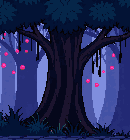
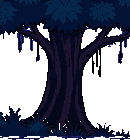
Fix the new skill scenes and the city walk: trees stand alone, rooms stay square, and people hold their ground.
Mining and woodcutting run again, empty spots show the first vein or grove, the lakes have a shore, the forge armor stands to the side, signed-in players can still read the update log, and Brokk is a little taller so he matches the others.

diff --git a/js/skillscene.js b/js/skillscene.js
@@ -1,11 +1,16 @@
 // A walking skill scene: a looping backdrop and floor, a hero on the ground,
 // unique trees or rocks for the spot you picked, a room that gains furniture
 // as you level, and a short flash when you find something good.
-// Positions snap to whole pixels so nothing ripples.
+// Positions snap to whole pixels so nothing ripples. Room art keeps square
+// pixels: it is scaled evenly, then letterboxed or cropped, never stretched.
 import {walkSrc} from './art.js';
 
 const FR = 64, FALLBACK = 'engineer';
 const SCROLL = 16;
+const FIRST = {
+  mining: 'copper', woodcutting: 'ash', fishing: 'eel',
+  cooking: 'stew', smithing: 'iron', alchemy: 'draught', summoning: 'whisper'
+};
 
 const HERO_FOR = {
   mining: 'engineer', woodcutting: 'hunter', fishing: 'delivery_rider',
@@ -47,7 +52,8 @@ const FURN = {
     {src:'/assets/gen/sks/smith_barrel.png', at:30, x:0.0156, y:0.8387, w:14/ROOM_W},
     {src:'/assets/gen/sks/smith_swords.png', at:40, x:0.4375, y:0.0484, w:28/ROOM_W},
     {src:'/assets/gen/sks/smith_shoes.png', at:50, x:0.3906, y:0.9032, w:18/ROOM_W},
-    {src:'/assets/gen/sks/smith_armor.png', at:60, x:0.5104, y:0.5806, w:24/ROOM_W},
+    // Parked on the right, out of the walking lane in front of the forge.
+    {src:'/assets/gen/sks/smith_armor.png', at:60, x:0.8200, y:0.5806, w:24/ROOM_W},
     {src:'/assets/gen/sks/smith_hammer.png', at:70, x:0.3906, y:0.0484, w:14/ROOM_W},
     {src:'/assets/gen/sks/smith_barrel.png', at:80, x:0.5990, y:0.8387, w:14/ROOM_W},
     {src:'/assets/gen/sks/smith_lean.png', at:90, x:0.3281, y:0.6613, w:16/ROOM_W}
@@ -70,6 +76,7 @@ let raf = 0, last = 0, still = false;
 let W = 0, H = 0, k = 1.5, cam = 0, floorH = 0;
 let skill = '', spot = '', heroId = '', level = 0, finds = 0, moving = false;
 let x = 0, dir = 1, v = 28, f = 0, ft = 0, frames = 4, hopping = 0, primed = false, isRoom = false;
+let lay = {s: 1, dw: 384, dh: 160, ox: 0, oy: 0};
 
 function build() {
   node = document.createElement('div');
@@ -94,6 +101,47 @@ function build() {
   fxEl = node.querySelector('.sks-fx');
 }
 
+function artSize(sk, id) {
+  if (sk === 'cooking' || sk === 'smithing') return {w: 384, h: 124, floor: 16};
+  if (sk === 'alchemy') return {w: 384, h: 135, floor: 18};
+  if (sk === 'mining') return {w: 384, h: 160, floor: 36};
+  if (sk === 'woodcutting') return {w: 380, h: 136, floor: 24};
+  if (sk === 'fishing') return {w: 384, h: id === 'eel' ? 125 : 160, floor: 20};
+  return {w: 384, h: 160, floor: 16};
+}
+
+// Whole-number scale when crop and letterbox stay modest; otherwise a uniform
+// cover scale so pixels stay square (never stretch X and Y apart).
+function fitScale(rw, rh) {
+  if (!W || !H) return 1;
+  const cover = Math.max(W / rw, H / rh);
+  const contain = Math.min(W / rw, H / rh);
+  const cand = [Math.round(contain), Math.floor(contain), Math.round(cover), Math.ceil(cover), Math.floor(cover)];
+  let best = null, bestScore = 0.35;
+  for (const i of cand) {
+    if (!Number.isInteger(i) || i < 1) continue;
+    const cropW = Math.max(0, (i * rw - W) / Math.max(i * rw, 1));
+    const cropH = Math.max(0, (i * rh - H) / Math.max(i * rh, 1));
+    const barW = Math.max(0, (W - i * rw) / W);
+    const barH = Math.max(0, (H - i * rh) / H);
+    if (cropW > 0.45 || cropH > 0.45 || barW > 0.4 || barH > 0.4) continue;
+    const score = cropW + cropH + 0.6 * (barW + barH);
+    if (score < bestScore) { bestScore = score; best = i; }
+  }
+  return best || cover;
+}
+
+function layout() {
+  const art = artSize(skill, spot);
+  const s = isRoom ? fitScale(art.w, art.h) : (H ? H / art.h : 1);
+  const dw = art.w * s, dh = art.h * s;
+  const ox = (W - dw) / 2;
+  const oy = H - dh;
+  floorH = Math.round(art.floor * s);
+  lay = {s, dw, dh, ox, oy, art};
+  return lay;
+}
+
 function setSheet(id) {
   const src = walkSrc(id);
   const img = new Image();
@@ -108,9 +156,10 @@ function setSheet(id) {
 
 function sizeHero() {
   if (!sprite) return;
-  sprite.style.width = FR * k + 'px';
-  sprite.style.height = FR * k + 'px';
-  sprite.style.backgroundSize = `${FR * frames * k}px ${FR * k}px`;
+  const kk = k;
+  sprite.style.width = FR * kk + 'px';
+  sprite.style.height = FR * kk + 'px';
+  sprite.style.backgroundSize = `${FR * frames * kk}px ${FR * kk}px`;
   walkEl.style.bottom = Math.round(floorH) + 'px';
 }
 
@@ -118,13 +167,29 @@ function measure() {
   const r = node.getBoundingClientRect();
   if (!r.width || !r.height) return false;
   W = r.width; H = r.height;
-  k = Math.max(1, Math.min(2.2, H * 0.42 / FR));
+  layout();
+  const cap = Math.max(1, Math.floor((H * 0.85) / FR));
+  k = Math.max(1, Math.min(cap, Math.round(lay.s)));
   sizeHero();
   return true;
 }
 
+function placeFurniture() {
+  const list = FURN[skill] || [];
+  const {dw, dh, ox, oy} = lay;
+  [...furnLayer.children].forEach((p, i) => {
+    const it = list[i];
+    if (!it) return;
+    p.style.left = Math.round(ox + it.x * dw) + 'px';
+    p.style.top = Math.round(oy + it.y * dh) + 'px';
+    if (it.w) p.style.width = Math.round(it.w * dw) + 'px';
+    p.style.opacity = level >= it.at ? '1' : '0';
+  });
+}
+
 function applyScene(opts) {
-  const sk = opts.skill, id = opts.node || '';
+  const sk = opts.skill;
+  const id = opts.node || FIRST[sk] || '';
   const lv = opts.level || 1;
   const changed = sk !== skill || id !== spot || lv !== level;
   skill = sk; spot = id; level = lv;
@@ -132,37 +197,36 @@ function applyScene(opts) {
   moving = !!opts.active && !still;
 
   isRoom = !!FURN[sk];
+  layout();
   let bg = '/assets/gen/scene_' + sk + '.png';
   let floor = '';
   if (sk === 'mining') { bg = '/assets/gen/sks/bg_mine.png'; floor = '/assets/gen/sks/floor_mine.png'; }
   else if (sk === 'woodcutting') { bg = '/assets/gen/sks/bg_wood.png'; floor = '/assets/gen/sks/floor_wood.png'; }
-  else if (sk === 'fishing') bg = FISH_BG[id] || FISH_BG.eel;
+  else if (sk === 'fishing') { bg = FISH_BG[id] || FISH_BG.eel; floor = '/assets/gen/sks/floor_fish.png'; }
   bgEl.style.backgroundImage = `url(${bg})`;
   bgEl.style.backgroundRepeat = isRoom ? 'no-repeat' : 'repeat-x';
   if (floor) {
     floorEl.style.display = '';
     floorEl.style.backgroundImage = `url(${floor})`;
-    floorH = Math.max(10, Math.round(H * 0.12));
+    floorEl.style.backgroundRepeat = 'repeat-x';
   } else {
     floorEl.style.display = 'none';
-    floorH = Math.round(H * 0.08);
   }
-  walkEl.style.bottom = floorH + 'px';
+  walkEl.style.bottom = Math.round(floorH) + 'px';
 
-  // resource props
   if (changed) {
     propLayer.textContent = '';
     const src = PROP[id];
     if (src) {
       const count = sk === 'woodcutting' || sk === 'mining' ? 3 : 1;
+      const isTree = sk === 'woodcutting';
       for (let i = 0; i < count; i++) {
         const p = document.createElement('img');
         p.className = 'sks-prop';
         p.src = src;
         p.alt = '';
-        const isTree = sk === 'woodcutting';
-        p.style.width = (isTree ? 120 : 88) + 'px';
-        p.style.left = (18 + i * 28) + '%';
+        p.dataset.slot = String(i);
+        p.style.left = (14 + i * 30) + '%';
         propLayer.appendChild(p);
       }
     }
@@ -173,10 +237,8 @@ function applyScene(opts) {
       hut.alt = '';
       hut.style.right = '4%';
       hut.style.left = 'auto';
-      hut.style.width = '110px';
       propLayer.appendChild(hut);
     }
-    // furniture
     furnLayer.textContent = '';
     const list = FURN[sk] || [];
     for (const it of list) {
@@ -184,19 +246,17 @@ function applyScene(opts) {
       p.className = 'sks-furn-item';
       p.src = it.src;
       p.alt = '';
-      p.style.left = (it.x * 100) + '%';
-      p.style.top = (it.y * 100) + '%';
-      if (it.w) p.style.width = (it.w * 100) + '%';
       if (it.flip) p.style.transform = 'scaleX(-1)';
-      p.style.opacity = lv >= it.at ? '1' : '0';
       furnLayer.appendChild(p);
     }
-  } else {
-    [...furnLayer.children].forEach((p, i) => {
-      const it = (FURN[sk] || [])[i];
-      if (it) p.style.opacity = lv >= it.at ? '1' : '0';
-    });
   }
+  placeFurniture();
+  const treeW = Math.round(130 * lay.s);
+  const rockW = Math.round(64 * Math.max(1.2, lay.s));
+  [...propLayer.querySelectorAll('.sks-prop')].forEach(p => {
+    if (p.classList.contains('sks-hut')) p.style.width = Math.round(110 * Math.max(1, lay.s * 0.7)) + 'px';
+    else p.style.width = (skill === 'woodcutting' ? treeW : rockW) + 'px';
+  });
 
   bobEl.style.display = sk === 'fishing' && moving ? '' : 'none';
 
@@ -221,28 +281,31 @@ function frame(now) {
   if (!measure()) { raf = requestAnimationFrame(frame); return; }
   const dt = Math.min(0.05, (now - (last || now)) / 1000); last = now;
 
-  if (!still && !isRoom) cam += SCROLL * (k / 1.5) * dt;
+  if (!still && !isRoom) cam += SCROLL * (lay.s || 1) * dt;
   const camPx = Math.round(cam);
+  const bgW = Math.round(lay.dw);
+  const bgH = Math.round(lay.dh);
+  const ox = Math.round(lay.ox), oy = Math.round(lay.oy);
+  bgEl.style.backgroundSize = `${bgW}px ${bgH}px`;
   if (isRoom) {
-    bgEl.style.backgroundSize = '100% 100%';
-    bgEl.style.backgroundPosition = '0 0';
+    bgEl.style.backgroundPosition = `${ox}px ${oy}px`;
     propLayer.style.transform = '';
   } else {
-    const bgW = Math.round(Math.max(W * 1.4, H * 2.2));
-    const bgH = Math.round(H);
-    bgEl.style.backgroundSize = `${bgW}px ${bgH}px`;
-    bgEl.style.backgroundPosition = `${-Math.round(((camPx % bgW) + bgW) % bgW)}px 0`;
+    const shift = bgW ? ((camPx % bgW) + bgW) % bgW : 0;
+    bgEl.style.backgroundPosition = `${ox - Math.round(shift)}px ${oy}px`;
     propLayer.style.transform = `translateX(${-Math.round((camPx * 0.85) % Math.max(W, 1))}px)`;
   }
   if (floorEl.style.display !== 'none') {
-    const flW = Math.round(bgW);
+    const flW = bgW;
     floorEl.style.backgroundSize = `${flW}px ${Math.round(floorH)}px`;
-    floorEl.style.backgroundPosition = `${-Math.round(((camPx % flW) + flW) % flW)}px 100%`;
+    const shift = flW ? ((camPx % flW) + flW) % flW : 0;
+    floorEl.style.backgroundPosition = `${ox - Math.round(shift)}px 100%`;
     floorEl.style.height = Math.round(floorH) + 'px';
   }
+  placeFurniture();
 
   if (moving) {
-    x += dir * v * dt * (k / 1.5);
+    x += dir * v * dt * Math.max(0.8, lay.s / 1.5);
     const half = FR * k / 2;
     if (x > W + half) x = -half;
     if (x < -half) x = W + half;
@@ -255,6 +318,7 @@ function frame(now) {
   sprite.style.backgroundPosition = `${-Math.round(f * FR * k)}px 0`;
   sprite.style.transform = dir < 0 ? 'scaleX(-1)' : '';
   walkEl.style.transform = `translateX(${Math.round(x - FR * k / 2)}px) translateY(${-hop}px)`;
+  walkEl.style.bottom = Math.round(floorH) + 'px';
 
   if (skill === 'fishing' && moving) {
     const bx = Math.round(W * 0.62);

diff --git a/js/life.js b/js/life.js
@@ -153,23 +153,28 @@ function stepChat(now) {
   talk.next = now + 1900 + line.text.length * 55;
 }
 
-// Keep everyone at least one step apart. No turning around.
-function separate(g, left, right) {
+// Keep everyone at least one step apart. No turning around, and no pinning
+// anyone to the visible frame — standing or chatting heroes stay in the world
+// so they travel with the ground as the street scrolls.
+function separate(g) {
   const o = onStage().sort((p, q) => p.world - q.world);
+  const talking = w => talk && (w === talk.a || w === talk.b);
   for (let pass = 0; pass < 3; pass++) {
     for (let i = 0; i < o.length - 1; i++) {
       const a = o[i], b = o[i + 1], d = b.world - a.world;
       if (d >= g) continue;
-      const fixA = talk && (a === talk.a || a === talk.b), fixB = talk && (b === talk.a || b === talk.b);
+      const fixA = talking(a), fixB = talking(b);
       const push = g - d;
       if (fixA && !fixB) b.world += push; else if (fixB && !fixA) a.world -= push; else { a.world -= push / 2; b.world += push / 2; }
     }
-    if (o.length) {
-      if (o[0].world < cam + left) o[0].world = cam + left;
-      if (o[o.length - 1].world > cam + right) o[o.length - 1].world = cam + right;
+    for (let i = 1; i < o.length; i++) {
+      if (talking(o[i])) continue;
+      if (o[i].world - o[i - 1].world < g) o[i].world = o[i - 1].world + g;
     }
-    for (let i = 1; i < o.length; i++) if (o[i].world - o[i - 1].world < g) o[i].world = Math.min(cam + right, o[i - 1].world + g);
-    for (let i = o.length - 2; i >= 0; i--) if (o[i + 1].world - o[i].world < g) o[i].world = Math.max(cam + left, o[i + 1].world - g);
+    for (let i = o.length - 2; i >= 0; i--) {
+      if (talking(o[i])) continue;
+      if (o[i + 1].world - o[i].world < g) o[i].world = o[i + 1].world - g;
+    }
   }
 }
 
@@ -258,7 +263,22 @@ function frame(now) {
       w.world += w.dir * v * dt * (k / 1.5);
       w.moving = true;
     }
-    separate(g, left, right);
+    separate(g);
+    const half = FR * k / 2;
+    for (const w of onStage()) {
+      const sx = w.world - cam;
+      if (sx >= -half * 1.2 && sx <= W + half * 1.2) continue;
+      if (talk && (w === talk.a || w === talk.b)) {
+        talk.a.el.querySelector('.lc-b').classList.remove('on');
+        talk.b.el.querySelector('.lc-b').classList.remove('on');
+        talk.a.dir = talk.a.holdDir || talk.a.dir;
+        talk.b.dir = talk.b.holdDir || talk.b.dir;
+        talk = null;
+      }
+      w.st = 'off'; w.moving = false; w.el.style.visibility = 'hidden';
+      w.backAt = now + rnd(2500, 9000);
+      w.el.querySelector('.lc-b').classList.remove('on');
+    }
   } else {
     const span = W / (walkers.length + 1);
     walkers.forEach((w, i) => { w.world = cam + span * (i + 1); w.moving = false; w.st = 'on'; w.el.style.visibility = ''; });

diff --git a/js/public.js b/js/public.js
@@ -91,8 +91,11 @@
   function admit() {
     if (!client) return;
     return client.from('den_allow').select('email').maybeSingle().then(function (q) {
-      if (q.data) location.replace('/play');
-      else if (!q.error) reject();
+      if (q.data) {
+        var path = (location.pathname || '').replace(/\/+$/, '').replace(/\.html$/, '') || '/';
+        if (path === '/updates') return;
+        location.replace('/play');
+      } else if (!q.error) reject();
       else say('The city is busy. Try again in a moment.');
     });
   }
